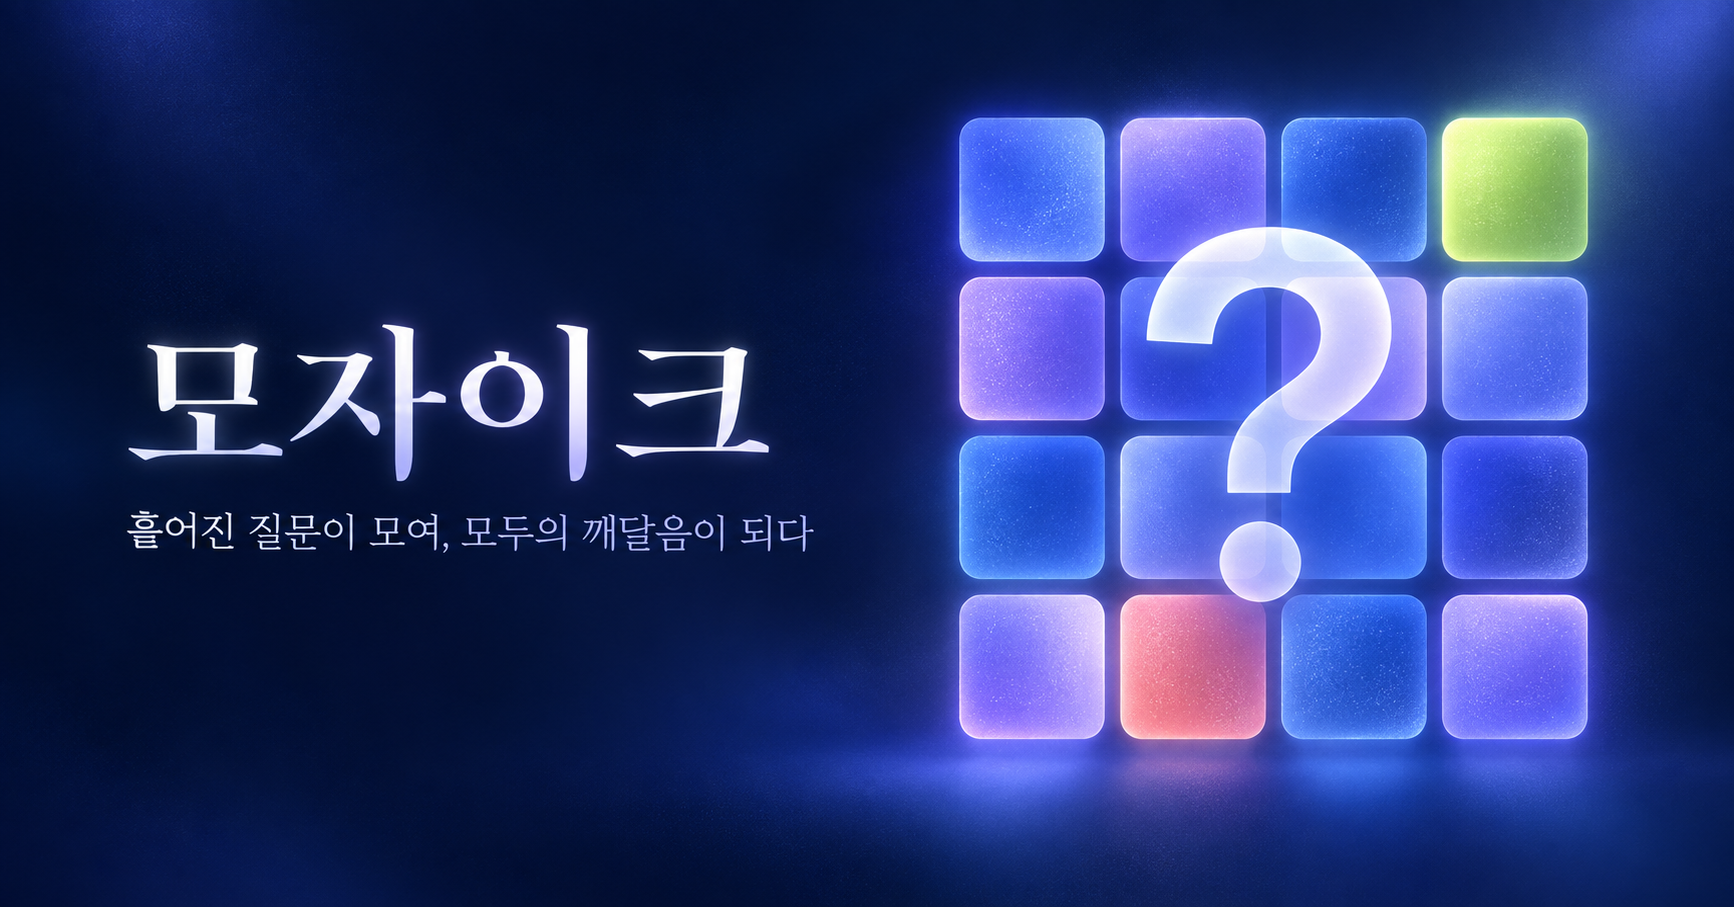
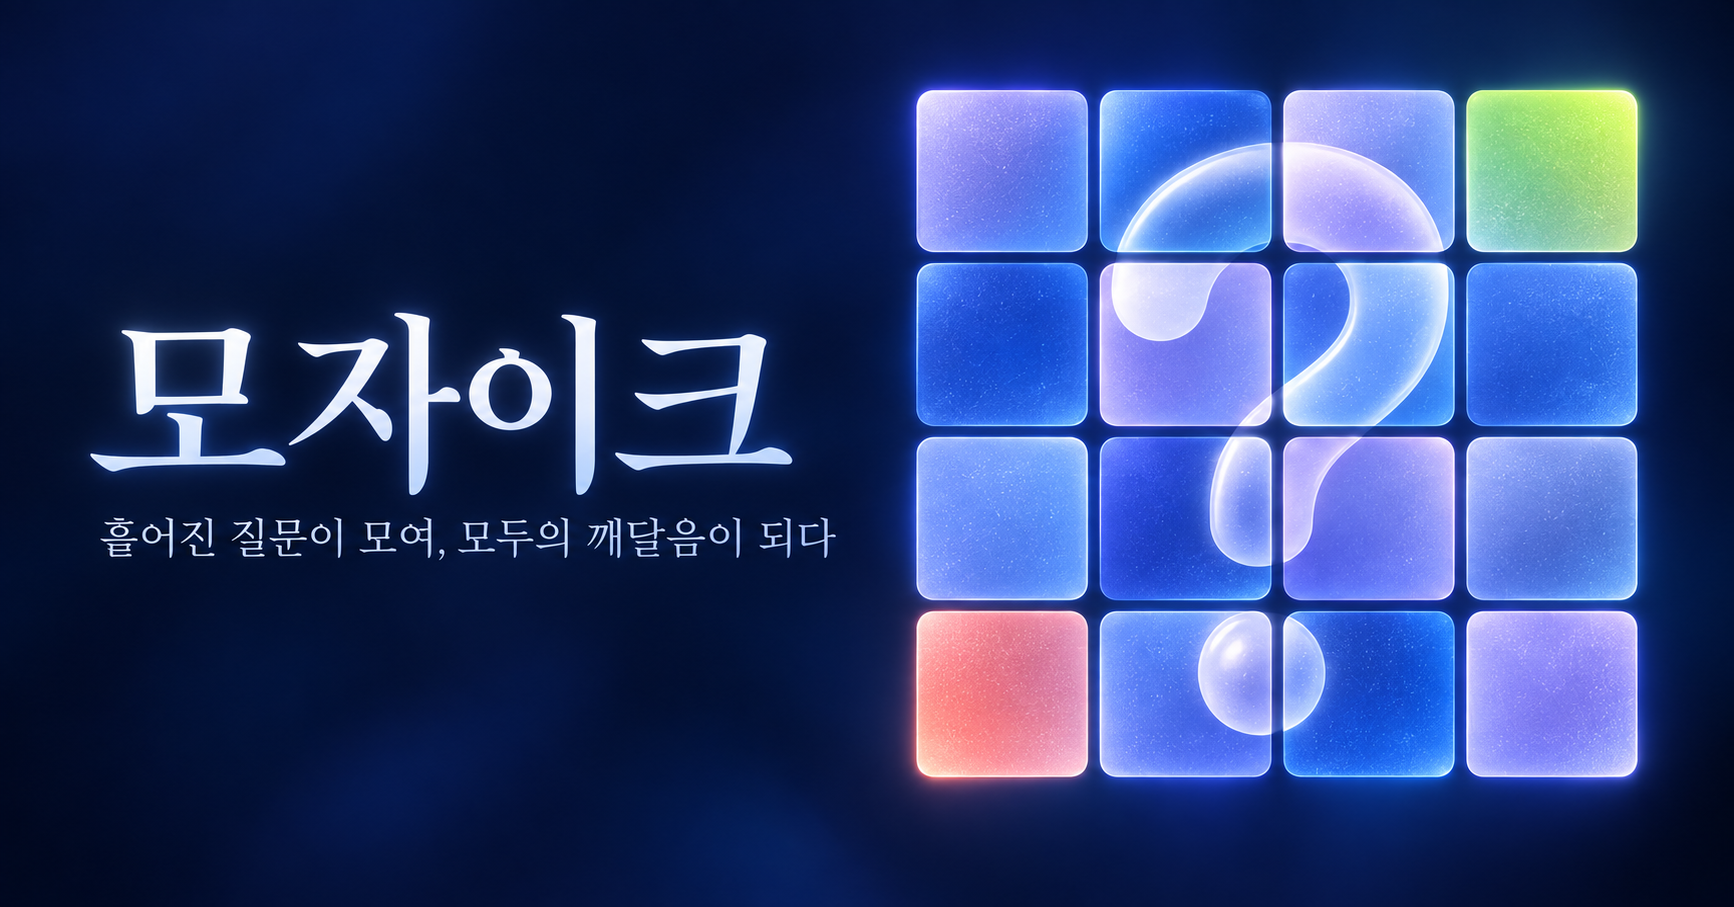
Soften Mosaic question mark

diff --git a/components/qsignal/MosaicMark.tsx b/components/qsignal/MosaicMark.tsx
@@ -38,13 +38,21 @@ export function MosaicMark() {
           y={tile.y}
         />
       ))}
-      <path
+      <g
         className="mosaic-mark__question"
         clipPath="url(#mosaic-mark-grid-clip)"
-        d="M17.5 17.25c0-4.7 3.15-7.65 7.8-7.65 4.45 0 7.55 2.78 7.55 6.93 0 3.37-1.48 5.19-4.35 7.18-2.26 1.57-3.19 2.89-3.19 5.33v1.62h-4.3v-2.15c0-3.25 1.22-5.22 3.87-7.04 2.45-1.66 3.62-2.86 3.62-4.79 0-1.94-1.4-3.26-3.43-3.26-2.47 0-3.72 1.76-3.72 4.42v.53h-4.3Zm3.55 19.45c0-1.85 1.43-3.28 3.37-3.28 1.95 0 3.39 1.43 3.39 3.28 0 1.84-1.44 3.26-3.39 3.26-1.94 0-3.37-1.42-3.37-3.26Z"
-        fill="url(#mosaic-mark-question-fill)"
         filter="url(#mosaic-mark-question-glow)"
-      />
+      >
+        <path
+          d="M16.7 17.2C16.7 12.1 20.1 9.4 24.7 9.4c4.9 0 8.5 2.8 8.5 7.2 0 3.4-1.9 5.2-4.6 7.1-3.1 2.1-4.5 4.1-4.5 7.4"
+          fill="none"
+          stroke="url(#mosaic-mark-question-fill)"
+          strokeLinecap="round"
+          strokeLinejoin="round"
+          strokeWidth="5.5"
+        />
+        <circle cx="24.1" cy="37.1" fill="url(#mosaic-mark-question-fill)" r="3.15" />
+      </g>
     </svg>
   );
 }
